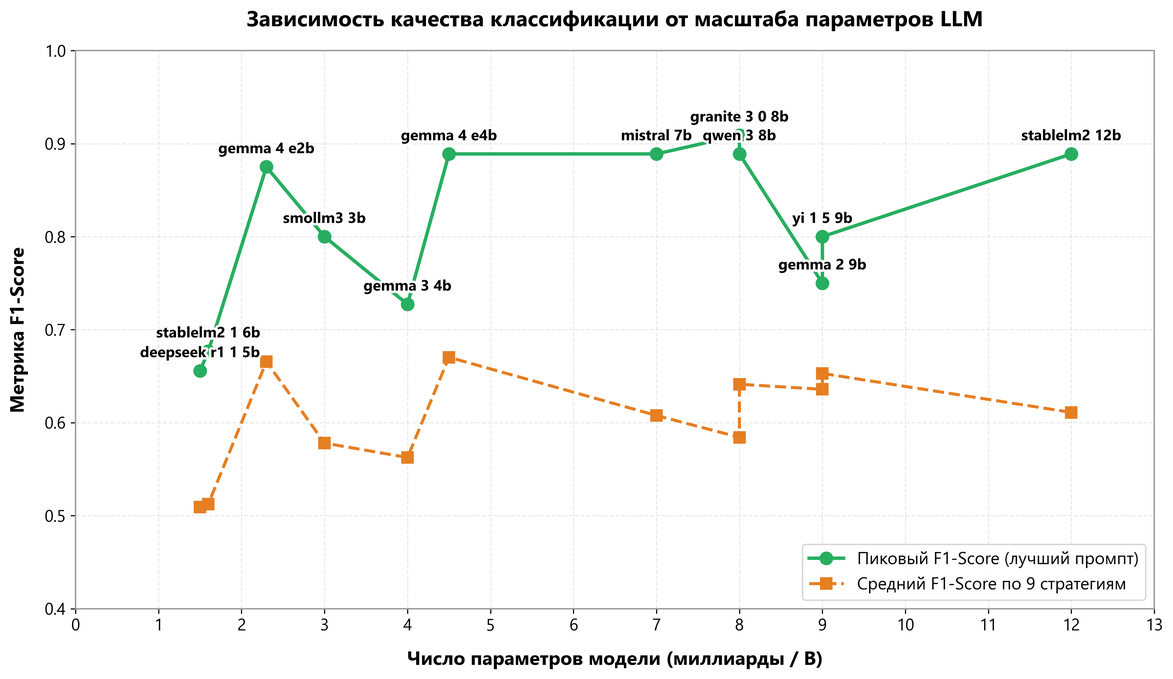
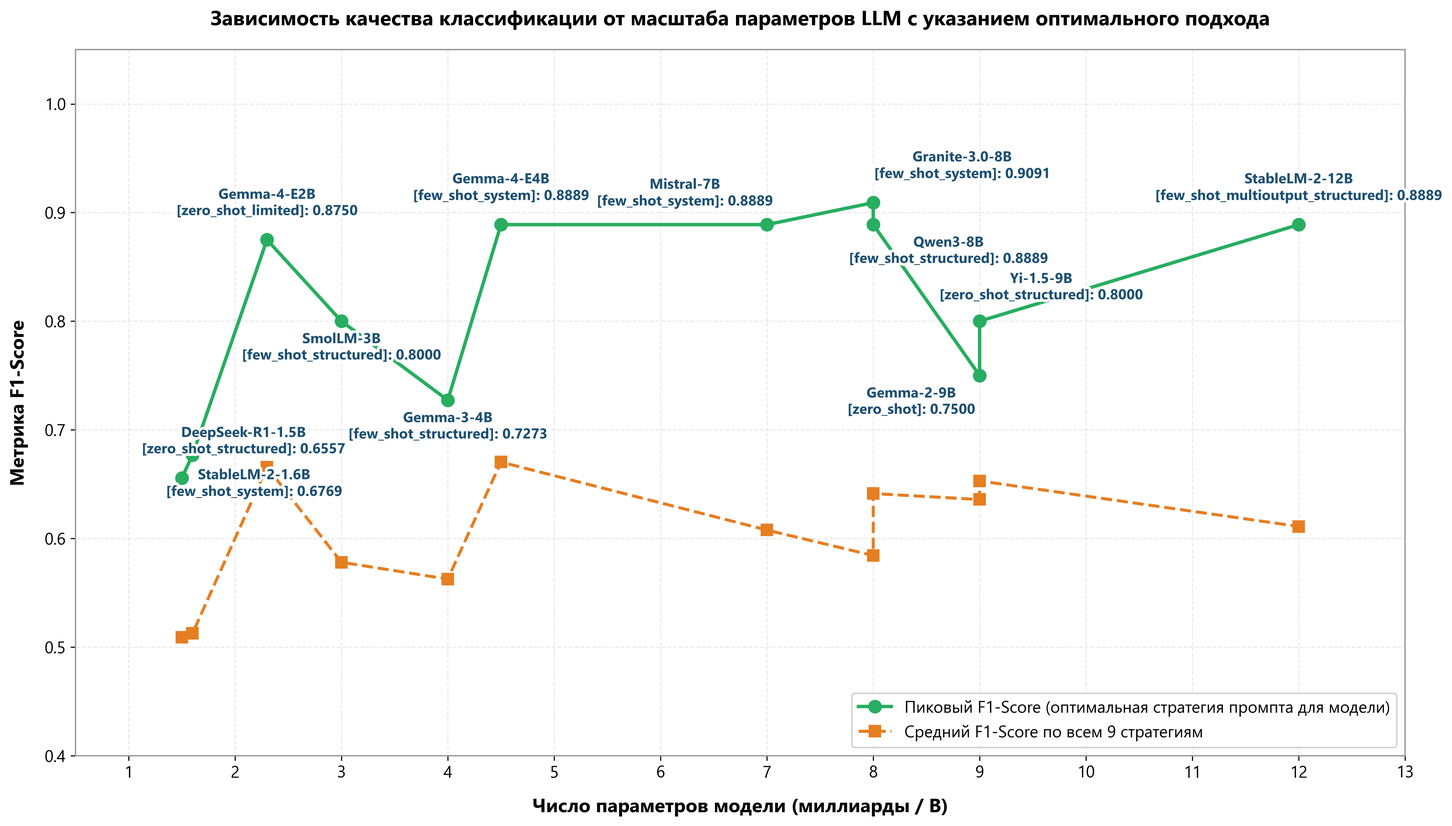
docs: clarify project scope, structure 12-model benchmark table, add 9-strategy scaling plot, fix mermaid padding

diff --git a/README.md b/README.md
@@ -1,8 +1,12 @@
 # Бенчмарк локальных LLM и базовых NLP-моделей в задаче классификации кликбейта
 
-В этом проекте я провел систематическое экспериментальное исследование: как открытые локальные языковые модели (LLM) разного масштаба (от 1.5B до 12B параметров) справляются с бинарной классификацией коротких текстов (кликбейтные заголовки против обычных) при различных стратегиях промптинга, и как их результаты соотносятся с классическим ML, рекуррентными сетями (RNN/GRU), дообученным энкодером (DistilBERT) и локальной LLM с адаптерами QLoRA.
+В этом исследовании я сосредоточился на экспериментальном анализе инференса открытых локальных языковых моделей (LLM) без дообучения: как открытые архитектуры масштаба от 1.5B до 12B параметров справляются с бинарной классификацией коротких текстов (кликбейтные заголовки против фактологических) при различных стратегиях формирования контекста и промпта. 
 
-Для проверки гипотез я протестировал **12 открытых моделей** на **9 стратегиях формирования промпта** (суммарно **108 экспериментальных конфигураций**) с логированием всех сырых генераций, ответов парсера и метрик.
+Для объективной оценки того, насколько zero-shot и few-shot инференс открытых LLM применим в продакшене, результаты сопоставляются с четырьмя эталонными решениями (бейзлайнами), подготовленными коллегами по команде: классическим ML на TF-IDF, рекуррентной сетью (RNN/GRU), дообученным энкодером DistilBERT и моделью Qwen2.5-1.5B с адаптерами QLoRA.
+
+> **Разделение зон ответственности в проекте**:
+> * **Моя работа**: проектирование и реализация бенчмарка инференса локальных LLM; разработка асинхронного двухпоточного планировщика очередей под 2x NVIDIA T4 GPU (`src/orchestrator.py`, `src/worker.py`, `src/model_loader.py`); реализация 9 стратегий промптинга (`src/prompts.py`); создание 4-уровневого парсера ответов с фильтрацией артефактов и каналов рассуждений `<think>` (`src/parsers.py`); проведение 108 экспериментов (12 моделей × 9 стратегий), сбор логов генераций и аналитическое сопоставление.
+> * **Базовые референсные модели (работа команды)**: скрипты и метрики четырех базовых моделей (`src/baselines/`) подготовлены другими участниками команды в качестве эталонных ориентиров (верхней и нижней планок качества) для сравнения с исследуемым мной инференсом LLM.
 
 Презентация проекта в формате PDF размещена в файле [`presentation/NLP_clickbait.pdf`](presentation/NLP_clickbait.pdf), а покадровые слайды — в каталоге [`presentation/slides/`](presentation/slides/).
 
@@ -10,25 +14,46 @@
 
 ## 1. Результаты экспериментов
 
-### 1.1. Сводная таблица: сравнение всех подходов
+### 1.1. Сводные результаты: сопоставление парадигм и всех 12 моделей
 
-В таблице ниже представлены итоговые метрики на тестовой выборке для всех протестированных классов моделей.
+Для исключения неоднозначности результаты разделены на два уровня:
+1. **Сравнение парадигм**: сопоставление внешних референсных моделей с обучением весов против ключевых контрольных точек инференса LLM.
+2. **Полный срез по всем 12 исследованным LLM**: пиковая конфигурация промпта и средний результат для каждой протестированной модели без пропусков.
 
-| Класс модели | Архитектура / Метод | Число параметров | Тестовый размер | Accuracy | Precision | Recall | F1-Score |
+#### Таблица 1.1.1. Сравнение ключевых парадигм и классов моделей
+
+| Парадигма / Класс модели | Архитектура / Метод | Число параметров | Тестовый размер | Accuracy | Precision | Recall | F1-Score |
 |:---|:---|:---:|:---:|:---:|:---:|:---:|:---:|
-| **Fine-Tuned Encoder** | `distilbert-base-uncased` (Full Fine-tuning) | 66M | 1600 | **0.9881** | **0.9912** | 0.9850 | **0.9881** |
-| **Classical ML** | Logistic Regression + TF-IDF (word/char) + Heuristics | ~20K весов | 1600 | 0.9806 | 0.9824 | 0.9788 | 0.9806 |
-| **Fine-Tuned LLM (PEFT)** | `Qwen2.5-1.5B-Instruct` + QLoRA 4-bit | 1.5B (LoRA: 18M) | 200 | 0.9800 | 0.9706 | **0.9900** | 0.9802 |
-| **Recurrent NN** | RNN с GRU-ячейками | ~1.2M | 1600 | 0.9612 | 0.9683 | 0.9538 | 0.9610 |
-| **Prompted LLM (Best)** | `granite-3.0-8b-instruct` (`few_shot_system`) | 8.0B | 50 | 0.9000 | 0.8333 | **1.0000** | 0.9091 |
-| **Prompted LLM** | `gemma-4-E4B-it` (`few_shot_system`) | 4.5B | 10 | 0.9000 | 0.8000 | **1.0000** | 0.8889 |
-| **Prompted LLM** | `Mistral-7B-Instruct-v0.3` (`few_shot_system`) | 7.0B | 10 | 0.9000 | 0.8000 | **1.0000** | 0.8889 |
-| **Prompted LLM** | `Qwen3-8B` (`few_shot_structured`) | 8.0B | 10 | 0.9000 | 0.8000 | **1.0000** | 0.8889 |
-| **Prompted LLM** | `stablelm-2-12b-chat` (`few_shot_multioutput`) | 12.0B | 10 | 0.9000 | 0.8000 | **1.0000** | 0.8889 |
-| **Prompted LLM** | `google/gemma-4-E2B-it` (`few_shot_system`) | 2.3B | 20 | 0.9000 | 0.8750 | 0.8750 | 0.8750 |
-| **Prompted LLM (Avg Zero-Shot)** | Среднее по 12 LLM в режиме `zero_shot` | 1.5B–12B | 10–50 | 0.6583 | 0.6124 | 0.6767 | 0.6106 |
+| **Fine-Tuned Encoder (Команда)** | `distilbert-base-uncased` (Full Fine-tuning) | 66M | 1600 | **0.9881** | **0.9912** | 0.9850 | **0.9881** |
+| **Classical ML (Команда)** | Logistic Regression + TF-IDF (word/char) + Heuristics | ~20K весов | 1600 | 0.9806 | 0.9824 | 0.9788 | 0.9806 |
+| **Fine-Tuned LLM PEFT (Команда)**| `Qwen2.5-1.5B-Instruct` + QLoRA 4-bit | 1.5B (LoRA: 18M) | 200 | 0.9800 | 0.9706 | **0.9900** | 0.9802 |
+| **Recurrent NN (Команда)** | RNN с двунаправленными GRU-ячейками | ~1.2M | 1600 | 0.9612 | 0.9683 | 0.9538 | 0.9610 |
+| **Prompted LLM: Абсолютный пик (Мой бенчмарк)** | `granite-3.0-8b-instruct` (`few_shot_system`) | 8.0B | 50 | 0.9000 | 0.8333 | **1.0000** | 0.9091 |
+| **Prompted LLM: Среднее топ-5 моделей на пике** | Granite-8B, Gemma-4-E4B, Mistral-7B, Qwen3-8B, StableLM-12B | 4.5B–12.0B | 10–50 | 0.9000 | 0.8067 | **1.0000** | 0.8929 |
+| **Prompted LLM: Среднее по лучшей стратегии** | Среднее всех 12 моделей на `few_shot_system` | 1.5B–12.0B | 10–50 | 0.7433 | 0.6698 | 0.8846 | 0.7521 |
+| **Prompted LLM: Среднее по базовой стратегии** | Среднее всех 12 моделей на `zero_shot` | 1.5B–12.0B | 10–50 | 0.6458 | 0.6265 | 0.6613 | 0.6106 |
+| **Prompted LLM: Среднее по худшей стратегии** | Среднее всех 12 моделей на `zero_shot_multioutput` | 1.5B–12.0B | 10–50 | 0.4600 | 0.3871 | 0.4438 | 0.4116 |
 
 ![Сравнение базовых подходов и LLM](assets/plots/baselines_vs_prompting.png)
+
+#### Таблица 1.1.2. Пиковые и средние результаты для всех 12 протестированных LLM
+
+В таблице ниже представлены индивидуальные результаты для **каждой из 12 моделей**, упорядоченные по возрастанию числа параметров: указана стратегия промптинга, обеспечившая наивысший $F_1$-score (пик), метрики матрицы ошибок и средний $F_1$-score по всем 9 опробованным стратегиям.
+
+| Модель | Число параметров | Оптимальная стратегия (Пик) | Accuracy | Precision | Recall | Пиковый F1 | Средний F1 (по 9 стратегиям) |
+|:---|:---:|:---|:---:|:---:|:---:|:---:|:---:|
+| `deepseek_r1_1_5b` | 1.5B | `zero_shot_structured` | 0.5800 | 0.5556 | 0.8000 | **0.6557** | 0.5092 |
+| `stablelm2_1_6b` | 1.6B | `few_shot_system` | 0.5800 | 0.5500 | 0.8800 | **0.6769** | 0.5126 |
+| `gemma_4_e2b` | 2.3B | `zero_shot_limited` | 0.9000 | 0.8750 | 0.8750 | **0.8750** | 0.6657 |
+| `smollm3_3b` | 3.0B | `few_shot_structured` | 0.8000 | 0.6667 | **1.0000** | **0.8000** | 0.5781 |
+| `gemma_3_4b` | 4.0B | `few_shot_structured` | 0.7000 | 0.5714 | **1.0000** | **0.7273** | 0.5626 |
+| `gemma_4_e4b` | 4.5B | `few_shot_system` | 0.9000 | 0.8000 | **1.0000** | **0.8889** | 0.6703 |
+| `mistral_7b` | 7.0B | `few_shot_system` | 0.9000 | 0.8000 | **1.0000** | **0.8889** | 0.6077 |
+| `granite_3_0_8b` | 8.0B | `few_shot_system` | 0.9000 | 0.8333 | **1.0000** | **0.9091** | 0.5843 |
+| `qwen_3_8b` | 8.0B | `few_shot_structured` | 0.9000 | 0.8000 | **1.0000** | **0.8889** | 0.6413 |
+| `gemma_2_9b` | 9.0B | `zero_shot` | 0.8000 | 0.7500 | 0.7500 | **0.7500** | 0.6358 |
+| `yi_1_5_9b` | 9.0B | `zero_shot_structured` | 0.8000 | 0.6667 | **1.0000** | **0.8000** | 0.6529 |
+| `stablelm2_12b` | 12.0B | `few_shot_multioutput_structured` | 0.9000 | 0.8000 | **1.0000** | **0.8889** | 0.6110 |
 
 ---
 
@@ -82,13 +107,29 @@
 
 ---
 
-### 1.4. Зависимость метрик от размера модели
+### 1.4. Зависимость метрик от размера модели и динамика стратегий
+
+#### 1.4.1. Пиковое и среднее качество в зависимости от числа параметров
+
+На графике ниже сопоставлены пиковый $F_1$-score (с указанием наименования оптимальной стратегии для каждой точки) и средний $F_1$-score по всем 9 стратегиям:
 
 ![Масштаб параметров моделей против качества](assets/plots/model_scaling_comparison.png)
 
-* Модели малого объема (1.5B–2.3B) при корректном подборе промпта способны показывать конкурентный пиковый $F_1$: `gemma_4_e2b` (2.3B) достигла $F_1 = 0.8750$, в то время как 12B модель `stablelm2_12b` показала пиковый $F_1 = 0.8889$.
-* При этом среднее качество по всем 9 стратегиям у `gemma_4_e4b` (4.5B) составило $0.6703$, что выше, чем у 12B модели ($0.6110$) и 7B модели Mistral ($0.6077$).
-* Модели рассуждений (Reasoning LLM: `deepseek_r1_1_5b`) в zero-shot задаче классификации показали $F_1 = 0.6557$ при условии принудительного ограничения длины рассуждения. Без явного указания предела токенов фаза `<think>` расходовала весь лимит `max_new_tokens = 512`, не успевая сгенерировать финальную метку.
+* **Компактные модели демонстрируют паритет с тяжелыми при точечном подборе промпта**: `gemma_4_e2b` (2.3B параметров) достигла пикового $F_1 = 0.8750$ на стратегии `zero_shot_limited`, в то время как 12B модель `stablelm2_12b` на своей лучшей стратегии (`few_shot_multioutput_structured`) показала $F_1 = 0.8889$.
+* **Средняя стабильность архитектур**: по среднему $F_1$ среди всех 9 стратегий лидируют `gemma_4_e4b` (4.5B, Mean $F_1 = 0.6703$), `gemma_4_e2b` (2.3B, Mean $F_1 = 0.6657$) и `yi_1_5_9b` (9.0B, Mean $F_1 = 0.6529$).
+* **Модели рассуждений (Reasoning LLM: `deepseek_r1_1_5b`)**: в zero-shot классификации модель показала пиковый $F_1 = 0.6557$ на `zero_shot_structured` исключительно при жестком ограничении бюджета рассуждений. Без директивы краткости фаза `<think>` исчерпывала весь лимит `max_new_tokens = 512`, обрывая генерацию до выдачи ответа.
+
+#### 1.4.2. Поведение каждой из 9 стратегий промптинга на всем спектре моделей
+
+Для детального анализа чувствительности архитектур я построил отдельный график с индивидуальными траекториями для всех 9 исследованных стратегий:
+
+![Динамика всех 9 стратегий промптинга по моделям](assets/plots/prompt_strategies_scaling.png)
+
+Анализ кривых выявляет ключевые закономерности:
+1. **`few_shot_system` (mean $F_1 = 0.7521$) и `few_shot_structured` (mean $F_1 = 0.7237$)**: формируют верхнюю границу качества для всех классов моделей от 1.5B до 12B. Начиная с масштаба 4.5B обе стратегии стабильно удерживают $F_1 \ge 0.72$, достигая глобального максимума $0.9091$ на `granite_3_0_8b`.
+2. **Аномальная деградация `few_shot_limited` (красная линия)**: стратегия демонстрирует критические провалы на строгих моделях с развитым instruction-following — падение до $F_1 = 0.0741$ на `stablelm2_1_6b` и до $F_1 = 0.1667$ на `granite_3_0_8b`. Причина: отсутствие явных ролевых разделителей (`user`/`assistant`) провоцировало модель на продолжение диалога с генерацией фиктивных реплик вместо выдачи одиночной цифры.
+3. **Хроническая неприменимость zero-shot батчинга (`zero_shot_multioutput_structured`, темно-коричневая линия)**: проходит по нижней границе всего бенчмарка ($F_1 \in [0.21, 0.50]$). Ни одна модель до 13B параметров не смогла надежно сопоставить индексы элементов входного батча без обучающих примеров.
+4. **Устойчивость структурированного вывода (`zero_shot_structured`, синяя линия)**: показывает наименьшую дисперсию среди zero-shot подходов ($\sigma = 0.0679$), удерживая качество в коридоре $0.55\text{--}0.80$ даже на малых моделях 1.5B–3.0B.
 
 ---
 
@@ -146,7 +187,9 @@ $$F_1 = 2 \cdot \frac{\text{Precision} \cdot \text{Recall}}{\text{Precision} + \
 
 ---
 
-### 2.3. Базовые решения (Baselines)
+### 2.3. Внешние референсные решения команды (Baselines)
+
+Для объективной оценки того, насколько zero-shot и few-shot инференс нетренированных локальных LLM конкурентоспособен, в проект включены четыре референсные модели, подготовленные коллегами по команде. Они служат верхней и нижней планками качества для задачи бинарной классификации кликбейта:
 
 #### 1. Классический ML (`src/baselines/classical_ml.py`)
 * **Векторизация текстов**:
@@ -195,24 +238,24 @@ $$F_1 = 2 \cdot \frac{\text{Precision} \cdot \text{Recall}}{\text{Precision} + \
 
 ```mermaid
 flowchart TD
-    Data["Тестовый датасет<br/>(test.csv, 1600 строк)"] --> Shuffler["Перемешивание<br/>(random_state=42)"]
-    Shuffler --> QueueManager["Диспетчер очередей<br/>по объему VRAM"]
+    Data["&nbsp;Тестовый датасет&nbsp;<br/>&nbsp;test.csv (1600)&nbsp;"] --> Shuffler["&nbsp;Перемешивание&nbsp;<br/>&nbsp;seed=42&nbsp;"]
+    Shuffler --> QueueManager["&nbsp;Диспетчер очередей&nbsp;<br/>&nbsp;по объему VRAM&nbsp;"]
     
-    QueueManager -->|"Вес &lt; 13 GB"| GPU0["Поток 0: GPU 0<br/>(cuda:0)"]
-    QueueManager -->|"Вес &lt; 13 GB"| GPU1["Поток 1: GPU 1<br/>(cuda:1)"]
-    QueueManager -->|"Вес &ge; 13 GB"| Heavy["Поток Heavy<br/>(2xT4 auto)"]
+    QueueManager -->|"&nbsp;&lt; 13 GB&nbsp;"| GPU0["&nbsp;Поток 0: GPU 0&nbsp;<br/>&nbsp;(cuda:0)&nbsp;"]
+    QueueManager -->|"&nbsp;&lt; 13 GB&nbsp;"| GPU1["&nbsp;Поток 1: GPU 1&nbsp;<br/>&nbsp;(cuda:1)&nbsp;"]
+    QueueManager -->|"&nbsp;&ge; 13 GB&nbsp;"| Heavy["&nbsp;Поток Heavy&nbsp;<br/>&nbsp;(2xT4 auto)&nbsp;"]
     
-    GPU0 --> PromptEngine["Компилятор промптов<br/>(9 стратегий)"]
+    GPU0 --> PromptEngine["&nbsp;Генератор промптов&nbsp;<br/>&nbsp;(9 стратегий)&nbsp;"]
     GPU1 --> PromptEngine
     Heavy --> PromptEngine
     
-    PromptEngine --> Generation["Жадная генерация<br/>(do_sample=False)"]
-    Generation --> CleanEngine["Очистка служебных токенов<br/>и каналов think"]
-    CleanEngine --> Parser["4-уровневый парсер<br/>бинарных меток"]
-    Parser --> MetricsEngine["Расчет метрик<br/>(Acc, Prec, Rec, F1)"]
+    PromptEngine --> Generation["&nbsp;Жадная генерация&nbsp;<br/>&nbsp;do_sample=False&nbsp;"]
+    Generation --> CleanEngine["&nbsp;Очистка токенов&nbsp;<br/>&nbsp;и канала think&nbsp;"]
+    CleanEngine --> Parser["&nbsp;4-уровневый парсер&nbsp;<br/>&nbsp;бинарных меток&nbsp;"]
+    Parser --> MetricsEngine["&nbsp;Расчет метрик&nbsp;<br/>&nbsp;Acc, Prec, Rec, F1&nbsp;"]
     
-    MetricsEngine --> Cache["Кэширование<br/>(predictions.csv, metrics.json)"]
-    Cache --> GitSync["Синхронизация с Git<br/>(threading.Lock)"]
+    MetricsEngine --> Cache["&nbsp;Кэширование:&nbsp;<br/>&nbsp;predictions.csv&nbsp;<br/>&nbsp;metrics.json&nbsp;"]
+    Cache --> GitSync["&nbsp;Синхронизация Git&nbsp;<br/>&nbsp;threading.Lock&nbsp;"]
 ```
 
 Инженерные решения конвейера:
